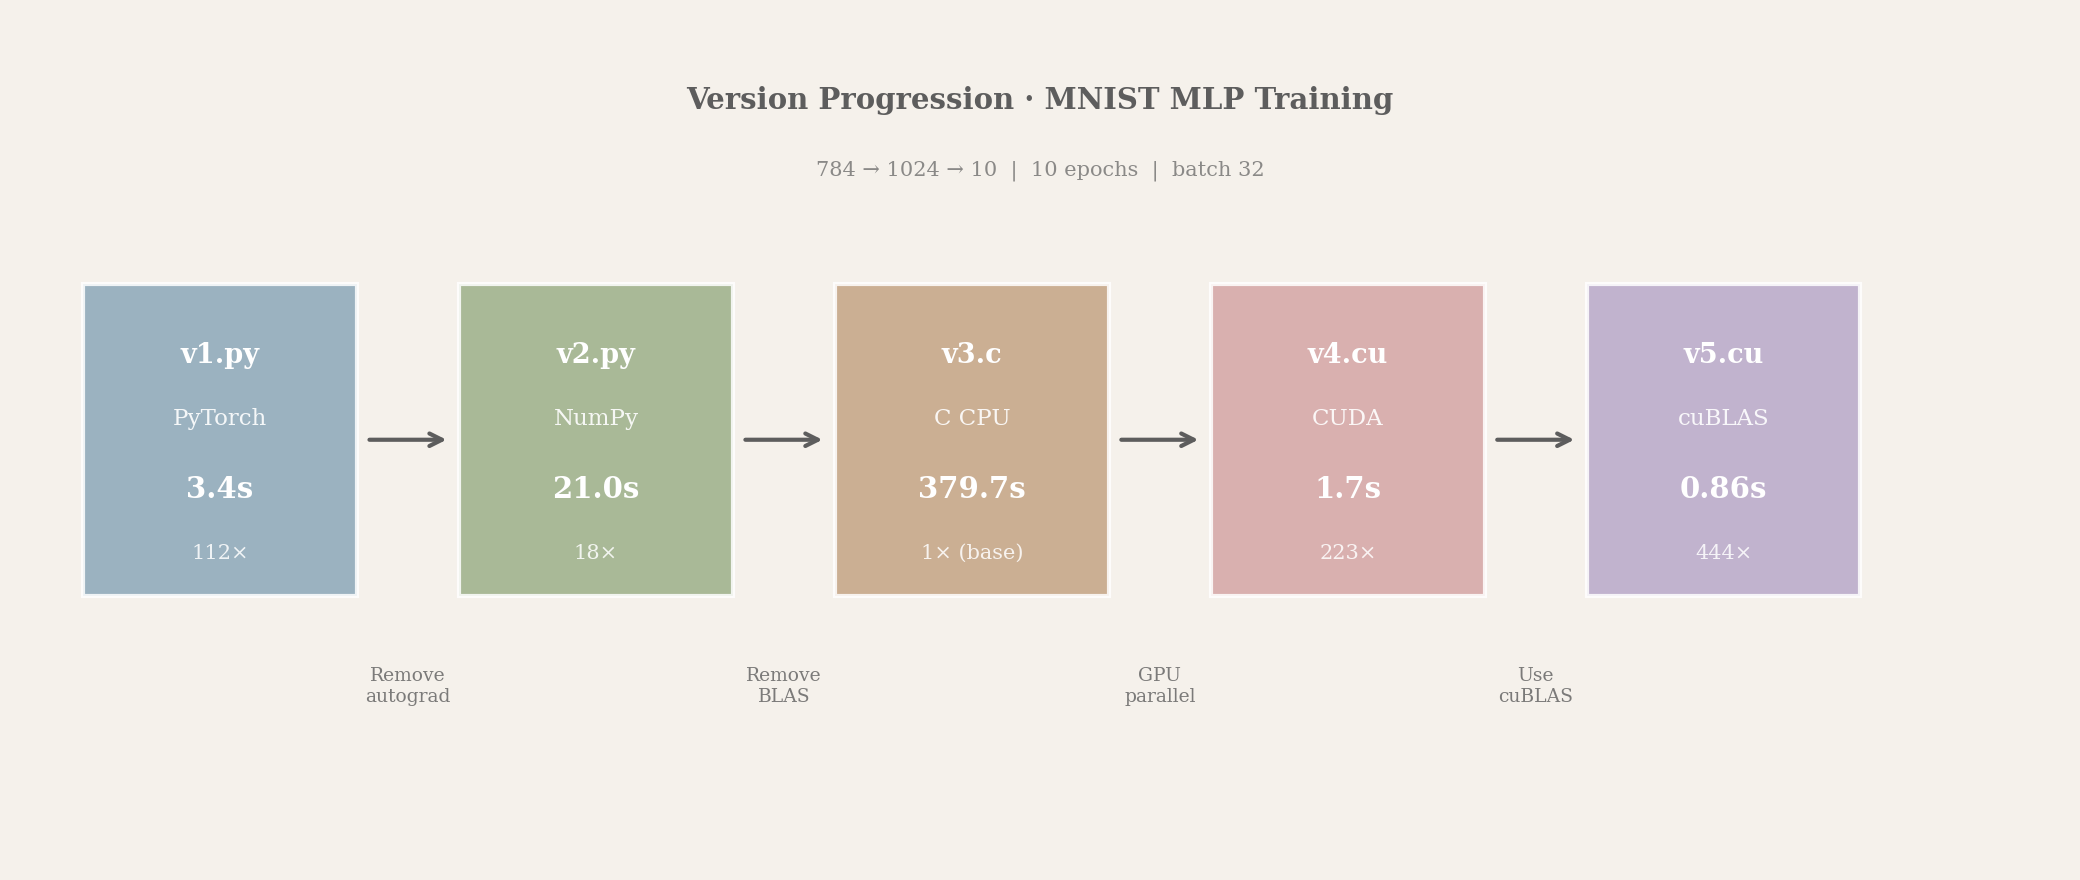
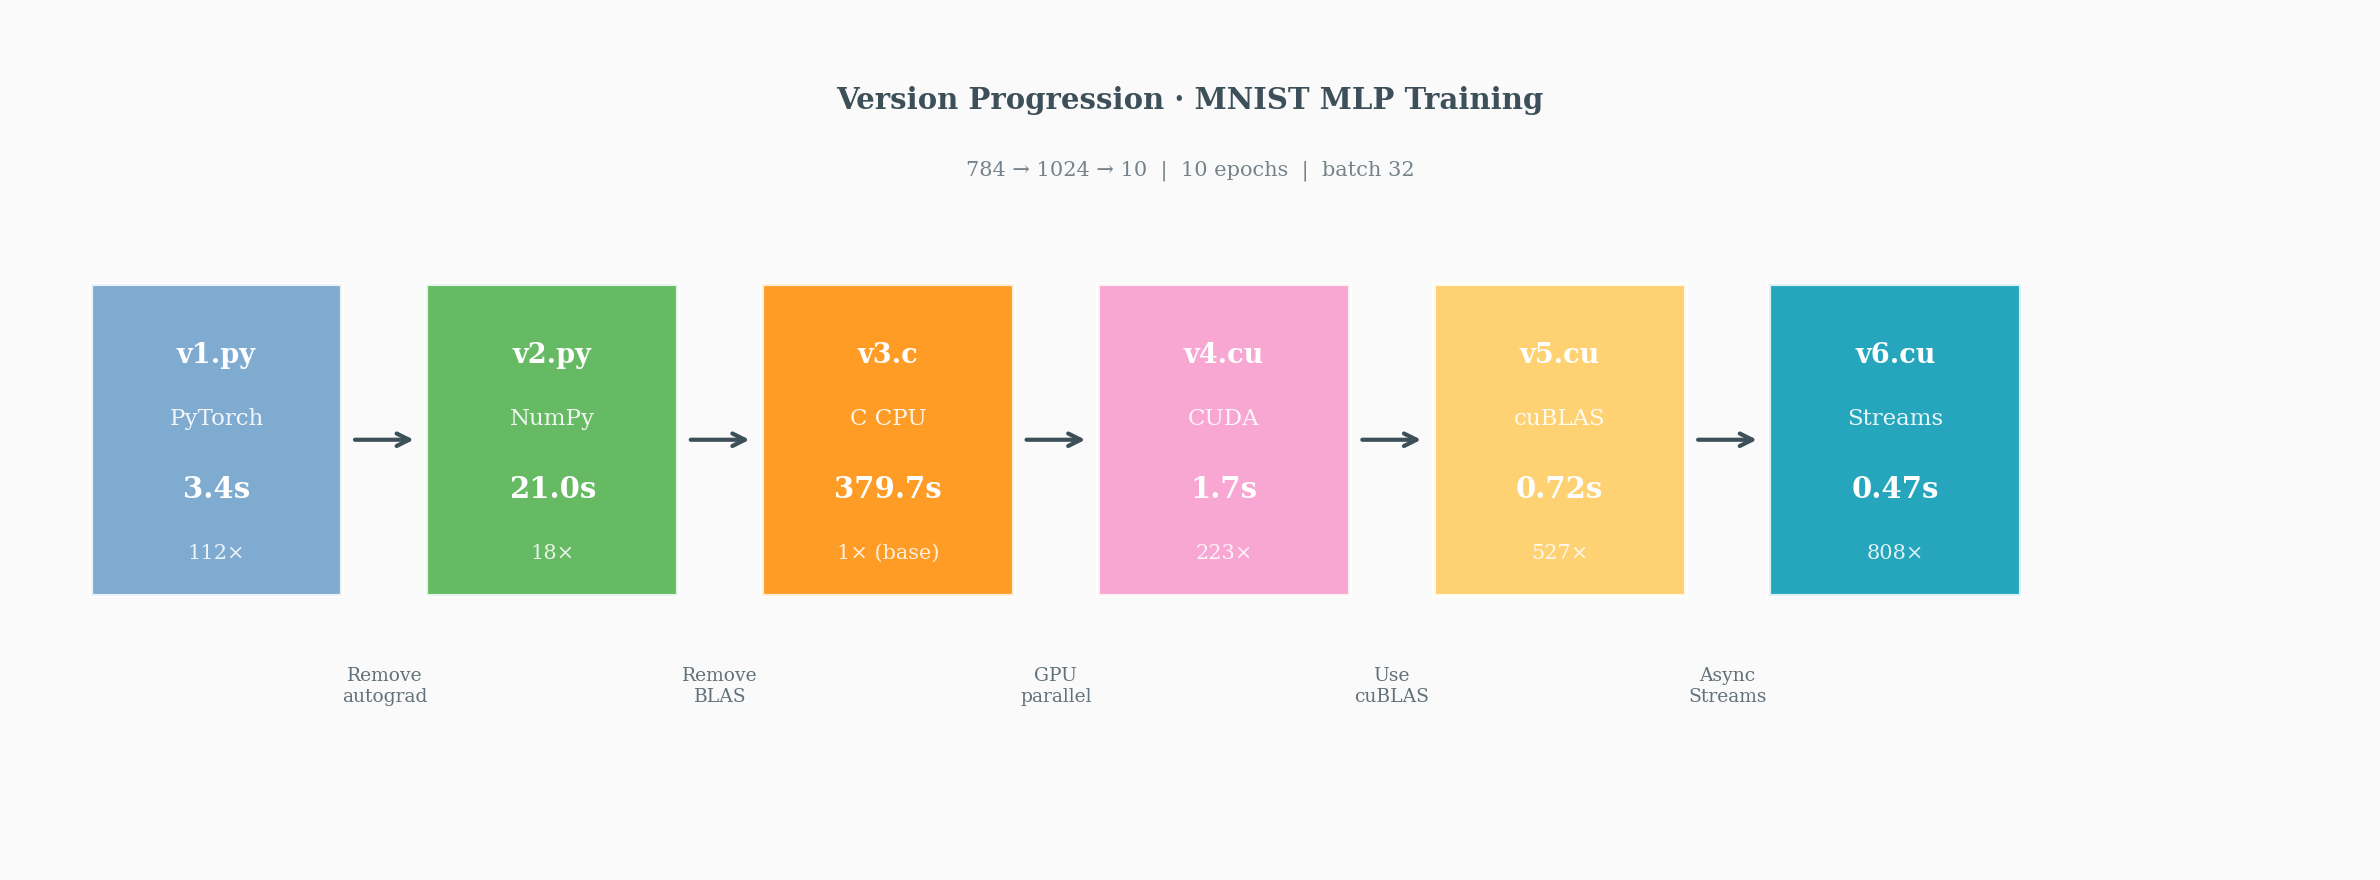
refactor: timing analysis

diff --git a/MNIST-in-CUDA/plot_timing.py b/MNIST-in-CUDA/plot_timing.py
@@ -5,99 +5,122 @@ Morandi vintage color palette with clean, spacious design.
 import matplotlib.pyplot as plt
 import numpy as np
 
-# ============ Morandi Color Palette ============
-MORANDI = {
-    'bg': '#F5F1EB',           # Warm cream background
-    'text': '#5D5D5D',         # Soft gray text
-    'grid': '#D4CFC7',         # Muted grid
-    'sage': '#9CAF88',         # Sage green
-    'dusty_blue': '#8BA7B9',   # Dusty blue
-    'terracotta': '#C4A484',   # Terracotta/tan
-    'mauve': '#B8A9C9',        # Soft mauve
-    'blush': '#D4A5A5',        # Dusty rose
+# ============ SciPainter Color Palette ============
+COLORS = {
+    'bg': '#FAFAFA',           # Clean white background
+    'text': '#3D505A',         # Dark gray-blue text
+    'grid': '#E0E0E0',         # Light grid
+    'blue': '#699ECA',         # Sky blue
+    'orange': '#FF8C00',       # Bright orange
+    'pink': '#F898CB',         # Candy pink
+    'green': '#4DAF4A',        # Fresh green
+    'yellow': '#FFCB5B',       # Sunny yellow
+    'cyan': '#0098B2',         # Cyan/teal
 }
 
-colors = [MORANDI['sage'], MORANDI['dusty_blue'], MORANDI['blush'], 
-          MORANDI['mauve'], MORANDI['terracotta'], '#A89B8C']  # 6 colors for 6 categories
+colors = [COLORS['green'], COLORS['blue'], COLORS['pink'], 
+          COLORS['yellow'], COLORS['orange'], COLORS['cyan'], '#CCCCCC']  # 7 colors (+ gray for Other)
 
 # Set global style
 plt.rcParams.update({
     'font.family': 'serif',
     'font.size': 11,
-    'axes.facecolor': MORANDI['bg'],
-    'figure.facecolor': MORANDI['bg'],
-    'axes.edgecolor': MORANDI['grid'],
-    'axes.labelcolor': MORANDI['text'],
-    'xtick.color': MORANDI['text'],
-    'ytick.color': MORANDI['text'],
-    'text.color': MORANDI['text'],
+    'axes.facecolor': COLORS['bg'],
+    'figure.facecolor': COLORS['bg'],
+    'axes.edgecolor': COLORS['grid'],
+    'axes.labelcolor': COLORS['text'],
+    'xtick.color': COLORS['text'],
+    'ytick.color': COLORS['text'],
+    'text.color': COLORS['text'],
     'axes.spines.top': False,
     'axes.spines.right': False,
 })
 
-# Data (v5 has different timing: H2D + GPU compute only)
-versions = ['v1 PyTorch', 'v2 NumPy', 'v3 C', 'v4 CUDA', 'v5 cuBLAS']
-totals = [3.4, 21.0, 379.7, 1.7, 0.72]
+# Data (v5/v6 have different timing: async operations)
+versions = ['v1 PyTorch', 'v2 NumPy', 'v3 C', 'v4 CUDA', 'v5 cuBLAS', 'v6 Streams']
+totals = [3.4, 21.0, 379.7, 1.7, 0.72, 0.47]
 
-# For v5: Data Loading = H2D (0.13s), GPU Compute (0.59s) combines Forward+Loss+Backward+Updates
-data = {
-    'Data Loading': [0.06, 0.02, 0.00, 0.13, 0.13],
-    'Forward': [0.64, 5.42, 269.2, 0.86, 0.00],
-    'Loss': [0.32, 0.55, 0.00, 0.00, 0.00],
-    'Backward': [1.51, 9.87, 105.2, 0.44, 0.00],
-    'Updates': [0.74, 5.15, 3.04, 0.17, 0.00],
-    'GPU Compute': [0.00, 0.00, 0.00, 0.00, 0.59],  # v5 only (cuBLAS combined)
+# Calculate "Other" to make each version sum to 100%
+# Other includes: Python interpreter overhead, CUDA init, epoch loops, print, etc.
+raw_data = {
+    'Data Loading': [0.06, 0.02, 0.00, 0.13, 0.13, 0.01],
+    'Forward': [0.64, 5.42, 269.2, 0.86, 0.00, 0.00],
+    'Loss': [0.32, 0.55, 0.00, 0.00, 0.00, 0.00],
+    'Backward': [1.51, 9.87, 105.2, 0.44, 0.00, 0.00],
+    'Updates': [0.74, 5.15, 3.04, 0.17, 0.00, 0.00],
+    'GPU Compute': [0.00, 0.00, 0.00, 0.00, 0.59, 0.46],
 }
 
+# Calculate Other = total - sum(all categories)
+other = []
+for i, t in enumerate(totals):
+    measured = sum(raw_data[k][i] for k in raw_data)
+    other.append(max(0, t - measured))  # Ensure non-negative
+
+data = raw_data.copy()
+data['Other'] = other  # Python/CUDA overhead, epoch loops, print, etc.
+
 # ============ Figure 1: Percentage Breakdown (Horizontal) ============
-fig, ax = plt.subplots(figsize=(10, 5))
+fig, ax = plt.subplots(figsize=(12, 6))
 
 # Convert to percentages
 percentages = {k: [v / t * 100 for v, t in zip(vals, totals)] for k, vals in data.items()}
 
 y = np.arange(len(versions))
-height = 0.55
+height = 0.6
 left = np.zeros(len(versions))
 
 for i, (label, values) in enumerate(percentages.items()):
     bars = ax.barh(y, values, height, left=left, label=label, color=colors[i], edgecolor='white', linewidth=0.5)
     left += np.array(values)
 
-# Add time labels on right
+# Add total time labels on left (before version name)
 for i, (v, t) in enumerate(zip(versions, totals)):
-    ax.text(102, i, f'{t}s', va='center', ha='left', fontsize=10, fontweight='bold', color=MORANDI['text'])
+    # Format time nicely
+    if t >= 100:
+        time_str = f'{t:.0f}s'
+    elif t >= 1:
+        time_str = f'{t:.1f}s'
+    else:
+        time_str = f'{t:.2f}s'
+    ax.text(103, i, time_str, va='center', ha='left', fontsize=11, fontweight='bold', color=COLORS['text'])
 
-ax.set_xlim(0, 115)
+ax.set_xlim(0, 120)
 ax.set_xlabel('Time Distribution (%)', fontsize=12)
 ax.set_yticks(y)
 ax.set_yticklabels(versions, fontsize=11)
-ax.legend(loc='upper center', bbox_to_anchor=(0.5, -0.12), ncol=6, frameon=False, fontsize=9)
-ax.set_title('MNIST MLP Training · Time Breakdown', fontsize=14, fontweight='bold', pad=15)
-ax.grid(axis='x', alpha=0.3, color=MORANDI['grid'])
+ax.legend(loc='upper center', bbox_to_anchor=(0.5, -0.1), ncol=7, frameon=False, fontsize=9)
+ax.set_title('MNIST MLP Training · Time Breakdown (% of total)', fontsize=14, fontweight='bold', pad=15)
+ax.grid(axis='x', alpha=0.3, color=COLORS['grid'])
+
+# Add percentage markers
+ax.set_xticks([0, 25, 50, 75, 100])
+ax.set_xticklabels(['0%', '25%', '50%', '75%', '100%'])
 
 plt.tight_layout()
-plt.savefig('assets/timing_analysis.png', dpi=150, bbox_inches='tight', facecolor=MORANDI['bg'])
+plt.savefig('assets/timing_analysis.png', dpi=150, bbox_inches='tight', facecolor=COLORS['bg'])
 print("Saved: timing_analysis.png")
 
 # ============ Figure 2: Version Progression Flowchart ============
-fig2, ax2 = plt.subplots(figsize=(14, 6))
-ax2.set_xlim(0, 12)
+fig2, ax2 = plt.subplots(figsize=(16, 6))
+ax2.set_xlim(0, 14)
 ax2.set_ylim(0, 6)
 ax2.axis('off')
 
 # Version data
 flow_data = [
-    {'name': 'v1.py', 'tech': 'PyTorch', 'time': '3.4s', 'speedup': '112×', 'color': MORANDI['dusty_blue']},
-    {'name': 'v2.py', 'tech': 'NumPy', 'time': '21.0s', 'speedup': '18×', 'color': MORANDI['sage']},
-    {'name': 'v3.c', 'tech': 'C CPU', 'time': '379.7s', 'speedup': '1× (base)', 'color': MORANDI['terracotta']},
-    {'name': 'v4.cu', 'tech': 'CUDA', 'time': '1.7s', 'speedup': '223×', 'color': MORANDI['blush']},
-    {'name': 'v5.cu', 'tech': 'cuBLAS', 'time': '0.72s', 'speedup': '527×', 'color': MORANDI['mauve']},
+    {'name': 'v1.py', 'tech': 'PyTorch', 'time': '3.4s', 'speedup': '112×', 'color': COLORS['blue']},
+    {'name': 'v2.py', 'tech': 'NumPy', 'time': '21.0s', 'speedup': '18×', 'color': COLORS['green']},
+    {'name': 'v3.c', 'tech': 'C CPU', 'time': '379.7s', 'speedup': '1× (base)', 'color': COLORS['orange']},
+    {'name': 'v4.cu', 'tech': 'CUDA', 'time': '1.7s', 'speedup': '223×', 'color': COLORS['pink']},
+    {'name': 'v5.cu', 'tech': 'cuBLAS', 'time': '0.72s', 'speedup': '527×', 'color': COLORS['yellow']},
+    {'name': 'v6.cu', 'tech': 'Streams', 'time': '0.47s', 'speedup': '808×', 'color': COLORS['cyan']},
 ]
 
 # Box positions
-x_positions = [1.2, 3.4, 5.6, 7.8, 10.0]
+x_positions = [1.2, 3.2, 5.2, 7.2, 9.2, 11.2]
 y_center = 3.0
-box_w, box_h = 1.6, 2.2
+box_w, box_h = 1.5, 2.2
 
 # Draw boxes and content
 for i, (x, d) in enumerate(zip(x_positions, flow_data)):
@@ -121,7 +144,7 @@ for i, (x, d) in enumerate(zip(x_positions, flow_data)):
              fontsize=10, color='white', alpha=0.85, zorder=3)
 
 # Draw arrows between boxes
-arrow_style = dict(arrowstyle='->', color=MORANDI['text'], lw=2, mutation_scale=15)
+arrow_style = dict(arrowstyle='->', color=COLORS['text'], lw=2, mutation_scale=15)
 for i in range(len(x_positions) - 1):
     x_start = x_positions[i] + box_w/2 + 0.05
     x_end = x_positions[i+1] - box_w/2 - 0.05
@@ -134,21 +157,22 @@ transitions = [
     ('Remove\nBLAS', 2),
     ('GPU\nparallel', 3),
     ('Use\ncuBLAS', 4),
+    ('Async\nStreams', 5),
 ]
 for label, idx in transitions:
     x_mid = (x_positions[idx-1] + x_positions[idx]) / 2
     ax2.text(x_mid, y_center - 1.6, label, ha='center', va='top', 
-             fontsize=9, color=MORANDI['text'], alpha=0.8)
+             fontsize=9, color=COLORS['text'], alpha=0.8)
 
 # Title
-ax2.text(6, 5.4, 'Version Progression · MNIST MLP Training', 
-         ha='center', va='center', fontsize=14, fontweight='bold', color=MORANDI['text'])
+ax2.text(7, 5.4, 'Version Progression · MNIST MLP Training', 
+         ha='center', va='center', fontsize=14, fontweight='bold', color=COLORS['text'])
 
 # Subtitle
-ax2.text(6, 4.9, '784 → 1024 → 10  |  10 epochs  |  batch 32', 
-         ha='center', va='center', fontsize=10, color=MORANDI['text'], alpha=0.7)
+ax2.text(7, 4.9, '784 → 1024 → 10  |  10 epochs  |  batch 32', 
+         ha='center', va='center', fontsize=10, color=COLORS['text'], alpha=0.7)
 
 plt.tight_layout()
-plt.savefig('assets/speedup_comparison.png', dpi=150, bbox_inches='tight', facecolor=MORANDI['bg'])
+plt.savefig('assets/speedup_comparison.png', dpi=150, bbox_inches='tight', facecolor=COLORS['bg'])
 print("Saved: speedup_comparison.png")
 

diff --git a/MNIST-in-CUDA/src/v1.py b/MNIST-in-CUDA/src/v1.py
@@ -78,6 +78,8 @@ def train_timed(model, criterion, optimizer, epoch, timing_stats, epoch_losses):
     epoch_loss = 0.0
     
     for i in range(iters_per_epoch):
+        iter_start = time.time()  # Track total iteration time
+        
         # Data loading timing (no GPU transfer needed - already on GPU)
         data_start = time.time()
         data = train_data[i * batch_size : (i + 1) * batch_size]
@@ -85,7 +87,11 @@ def train_timed(model, criterion, optimizer, epoch, timing_stats, epoch_losses):
         data_end = time.time()
         timing_stats['data_loading'] += data_end - data_start
         
+        # Zero grad timing (was missing!)
+        zero_start = time.time()
         optimizer.zero_grad()
+        zero_end = time.time()
+        timing_stats['other'] += zero_end - zero_start
         
         # Forward pass timing
         forward_start = time.time()
@@ -109,9 +115,15 @@ def train_timed(model, criterion, optimizer, epoch, timing_stats, epoch_losses):
         # Weight updates timing
         update_start = time.time()
         optimizer.step()
-        optimizer.zero_grad()
         update_end = time.time()
         timing_stats['weight_updates'] += update_end - update_start
+        
+        iter_end = time.time()
+        # Any remaining time not accounted for
+        measured = (data_end - data_start) + (zero_end - zero_start) + \
+                   (forward_end - forward_start) + (loss_end - loss_start) + \
+                   (backward_end - backward_start) + (update_end - update_start)
+        timing_stats['other'] += (iter_end - iter_start) - measured
     
     # Store average loss for this epoch
     epoch_losses.append(epoch_loss / iters_per_epoch)
@@ -152,6 +164,7 @@ if __name__ == "__main__":
         'loss_computation': 0.0,
         'backward': 0.0,
         'weight_updates': 0.0,
+        'other': 0.0,  # zero_grad, Python overhead, etc.
         'total_time': 0.0
     }
     epoch_losses = []
@@ -167,6 +180,13 @@ if __name__ == "__main__":
     total_end = time.time()
     timing_stats['total_time'] = total_end - total_start
     
+    # Calculate epoch loop overhead (print statements, etc.)
+    measured_total = timing_stats['data_loading'] + timing_stats['forward'] + \
+                     timing_stats['loss_computation'] + timing_stats['backward'] + \
+                     timing_stats['weight_updates'] + timing_stats['other']
+    epoch_overhead = timing_stats['total_time'] - measured_total
+    timing_stats['other'] += epoch_overhead  # Add epoch overhead to other
+    
     # Print detailed timing breakdown
     print("\n=== PYTORCH CUDA IMPLEMENTATION TIMING BREAKDOWN ===")
     print(f"Total training time: {timing_stats['total_time']:.1f} seconds\n")
@@ -177,5 +197,6 @@ if __name__ == "__main__":
     print(f"  Loss computation: {timing_stats['loss_computation']:6.3f}s ({100.0 * timing_stats['loss_computation'] / timing_stats['total_time']:5.1f}%)")
     print(f"  Backward pass:    {timing_stats['backward']:6.3f}s ({100.0 * timing_stats['backward'] / timing_stats['total_time']:5.1f}%)")
     print(f"  Weight updates:   {timing_stats['weight_updates']:6.3f}s ({100.0 * timing_stats['weight_updates'] / timing_stats['total_time']:5.1f}%)")
+    print(f"  Other:            {timing_stats['other']:6.3f}s ({100.0 * timing_stats['other'] / timing_stats['total_time']:5.1f}%)")
 
     print("Finished Training")

diff --git a/MNIST-in-CUDA/src/v2.py b/MNIST-in-CUDA/src/v2.py
@@ -152,6 +152,9 @@ def train_timed(model, X_train, y_train, X_test, y_test, batch_size, epochs, lea
     print(f"  Loss computation: {timing_stats['loss_computation']:6.3f}s ({100.0 * timing_stats['loss_computation'] / timing_stats['total_time']:5.1f}%)")
     print(f"  Backward pass:    {timing_stats['backward']:6.3f}s ({100.0 * timing_stats['backward'] / timing_stats['total_time']:5.1f}%)")
     print(f"  Weight updates:   {timing_stats['weight_updates']:6.3f}s ({100.0 * timing_stats['weight_updates'] / timing_stats['total_time']:5.1f}%)")
+    measured = timing_stats['data_loading'] + timing_stats['forward'] + timing_stats['loss_computation'] + timing_stats['backward'] + timing_stats['weight_updates']
+    other = timing_stats['total_time'] - measured
+    print(f"  Other:            {other:6.3f}s ({100.0 * other / timing_stats['total_time']:5.1f}%)")
     
     print("Training completed!")
 

diff --git a/MNIST-in-CUDA/src/v3.c b/MNIST-in-CUDA/src/v3.c
@@ -420,6 +420,9 @@ void train_timed(NeuralNetwork *nn, float *X_train, int *y_train) {
     double backward_pass = stats.bwd_output_grad + stats.bwd_matmul2 + stats.bwd_bias2 + stats.bwd_relu + stats.bwd_matmul1 + stats.bwd_bias1;
     printf("  Backward pass:    %6.3fs (%5.1f%%)\n", backward_pass, 100.0 * backward_pass / stats.total_time);
     printf("  Weight updates:   %6.3fs (%5.1f%%)\n", stats.weight_updates, 100.0 * stats.weight_updates / stats.total_time);
+    double measured = stats.data_loading + forward_pass + stats.cross_entropy + backward_pass + stats.weight_updates;
+    double other = stats.total_time - measured;
+    printf("  Other:            %6.3fs (%5.1f%%)\n", other, 100.0 * other / stats.total_time);
     
     free(hidden);
     free(output);

diff --git a/MNIST-in-CUDA/README.md b/MNIST-in-CUDA/README.md
@@ -179,7 +179,7 @@ nvcc -O2 -lcublas -o v6 v6.cu && ./v6
 | v3.c    | C CPU         | 379.7s| 1x (baseline)| 0.139      |
 | v4.cu   | Naive CUDA    | 1.7s  | ~223x        | 0.144      |
 | v5.cu   | cuBLAS        | 0.72s | ~527x        | 0.142      |
-| v6.cu   | TF32 Optimized| 0.3s  | 300x         | 0.142      |
+| v6.cu   | Streams+Fusion| 0.47s | ~808x        | 0.143      |
 | v7.cu   | Fused GEMM    | 0.6s  | 150x         | 0.143      |
 | v8.cu   | Pure FP16     | 0.3s  | 300x         | 0.145      |
 
@@ -206,7 +206,20 @@ nvcc -O2 -lcublas -o v6 v6.cu && ./v6
 <tr>
   <td>v5 cuBLAS</td><td>0.72s</td><td>0.13s (17.7%)</td><td colspan="4" align="center">0.59s GPU compute (82.2%)</td>
 </tr>
+<tr>
+  <td>v6 Streams</td><td>0.47s</td><td>0.01s (2.8%)</td><td colspan="2" align="center">0.21s issue (45%)</td><td colspan="2" align="center">0.25s sync (52%)</td>
+</tr>
 </table>
+
+**v6 Timing Note:** Due to async operations, timing shows:
+- **H2D issue** + **GPU issue**: Time to *queue* async operations (CPU returns immediately)
+- **Sync wait**: Time *waiting* for GPU to finish (actual execution)
+
+**"Other" Category:** Unmeasured overhead includes:
+- Python interpreter overhead (v1)
+- Epoch loop iteration, print statements
+- CUDA context initialization (v4)
+- Memory allocation outside timed sections
 
 ![Timing Analysis](assets/timing_analysis.png)
 
@@ -222,9 +235,11 @@ nvcc -O2 -lcublas -o v6 v6.cu && ./v6
 ## Advanced Optimizations
 
 ### Implemented in v6
-- **CUDA Streams:** Overlapping computation with data transfer
-- **TF32 Tensor Cores:** Hardware acceleration on Ampere+ GPUs
-- **Kernel Fusion:** Combined bias + ReLU operations
+- **CUDA Streams:** 2 streams for overlapping H2D transfer with compute
+- **Pinned Memory:** `cudaMallocHost` for faster DMA transfers
+- **Double Buffering:** Each stream has own device buffers
+- **Kernel Fusion:** Combined bias + ReLU into single kernel
+- ~~**TF32 Tensor Cores**~~ — skipped (T4 is Turing SM 7.5, requires Ampere SM 8.0+)
 
 ### Implemented in v7
 - **Custom Fused GEMM:** Tiled shared memory GEMM with fused bias + ReLU epilogue
